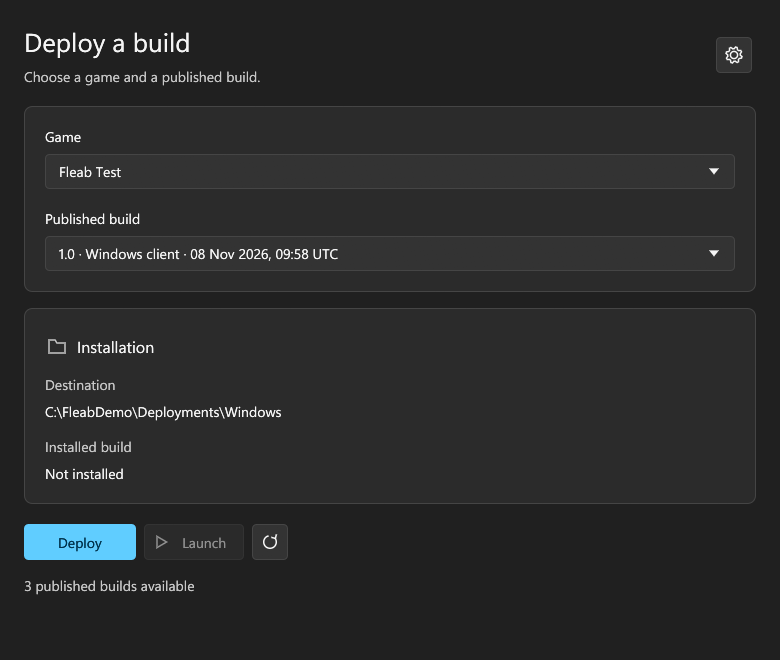
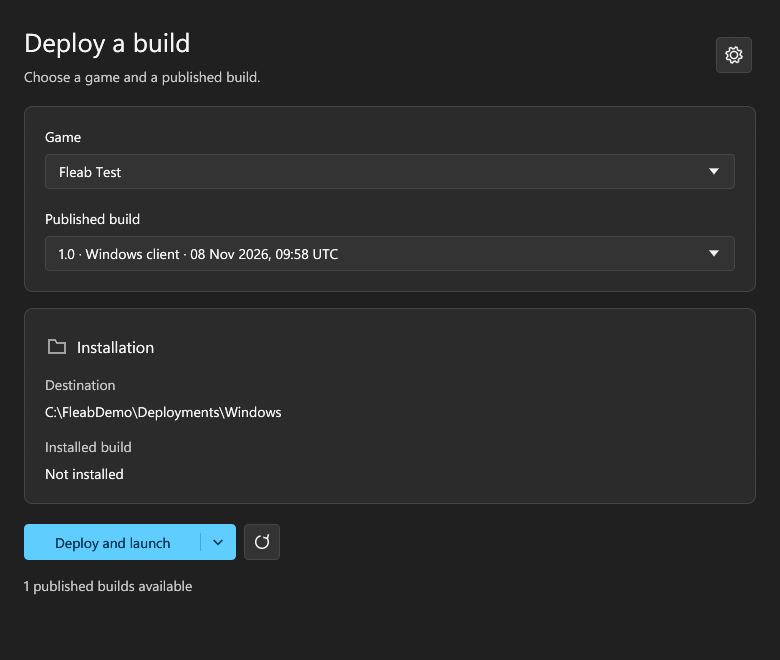
docs(deployer): explain the combined action and refresh screenshots
Update quickstart steps for Deploy and launch and explain the
split-button choices, session selection, cancellation, and recovery
when a deployed build cannot start.

Refresh app screenshots in both themes, include the open action menu,
and record Windows, Linux, and hidden Sandbox verification results.

Changed region(s): [[0.0615, 0.7879, 0.3692, 0.8485], [0.0308, 0.8788, 0.2462, 0.9091]]

diff --git a/docs/verification.md b/docs/verification.md
@@ -1,5 +1,35 @@
 # Verification record
 
+## Deploy and launch — 12 November 2026
+
+The desktop split button defaults to **Deploy and launch** and offers
+**Deploy only** and **Launch installed**. Menu selection changes the action
+without running it. The selection lasts for the app session.
+
+* Formatting and strict Clippy passed on Windows x64 and Linux x64 (WSL).
+* Rust suites passed: 45 tests on Windows and 47 on native Linux filesystems.
+  New checks cover deployment-before-launch ordering, failed deployments,
+  cancellation during commit, launch failure preserving the installation,
+  first-install preflight and Wine/Proton configuration.
+* UI checks passed for menu selection without execution, completion/error
+  messages surviving a rescan, and all action labels fitting 480×390 and
+  780×660 windows in light and dark themes.
+* Hidden Windows Sandbox passed unit/integration checks, portable GUI startup,
+  and the combined action with a real published Unity Windows player. It
+  installed and started the player in batch/no-graphics mode, then confirmed
+  running-process protection and terminated its own player.
+* The actual desktop views and open menus were captured and inspected in
+  hidden Sandbox in both themes. The screenshot harness uses production view
+  code with capture-only palette and popup overrides; it does not replace an
+  interaction test. No host desktop windows were opened.
+
+The refreshed [light](screenshots/fleab-light.png) and
+[dark](screenshots/fleab-dark.png) app captures and
+[light](screenshots/actions-light.png) and
+[dark](screenshots/actions-dark.png) action menus use a sample profile.
+Native macOS/Windows ARM64 and actual Wine/Proton game launches still require
+their respective runtime environments; no new remote CI run is claimed here.
+
 ## Unity publisher folder picker — 10 November 2026
 
 The released settings window allowed the folder icon's intrinsic texture size to

diff --git a/docs/deployer.md b/docs/deployer.md
@@ -45,9 +45,26 @@ source on use. With no scanned selection, local installation records remain
 visible as status information.
 
 The selected archive determines the destination and installed-build display.
-Deploy installs the selected archive immediately. Launch uses the installed
-record for that target. Configured executable overrides are relative to the
-installation and must resolve inside it. Automatic detection requires a unique
+The primary split button defaults to **Deploy and launch**: it installs the
+selected archive, then starts that newly installed build with the profile's
+launch settings. Open the arrow to choose **Deploy only** or **Launch installed**.
+Choosing a menu item changes the button; click the button to run it. The choice
+lasts for the current app session. The refresh icon rescans the archive source.
+See the action menu in [light](screenshots/actions-light.png) or
+[dark](screenshots/actions-dark.png) mode.
+
+Launch never follows a failed or cancelled deployment. If cancellation arrives
+during the final replacement, the completed installation is kept and launch is
+skipped. If starting the game fails, the new installation remains available;
+correct the launch settings and retry **Launch installed** without redeploying.
+Unsupported platforms or missing Wine/Proton runners disable the combined
+action with an explanation; **Deploy only** remains available. A first-time
+installation can use the combined action without a previously installed build.
+
+**Launch installed** uses the installed record for the selected target,
+independently of the selected archive's version. Configured executable overrides
+are relative to the installation and must resolve inside it. Automatic detection
+requires a unique
 Unity player executable with its `_Data` directory or a valid `.app` bundle.
 macOS bundle validation uses `CFBundleExecutable`, including binary plists.
 

diff --git a/README.md b/README.md
@@ -18,7 +18,7 @@ always-on target computer is needed.
 
 <picture>
   <source media="(prefers-color-scheme: dark)" srcset="docs/screenshots/fleab-dark.png" />
-  <img src="docs/screenshots/fleab-light.png" width="780" alt="Fleab desktop app showing a published build, its destination, and Deploy and Launch controls" />
+  <img src="docs/screenshots/fleab-light.png" width="780" alt="Fleab desktop app showing a published build, its destination, and Deploy and launch split button" />
 </picture>
 
 ## Quickstart
@@ -35,7 +35,8 @@ always-on target computer is needed.
    computer, extract it, and open the app.
 4. Open the **settings cog** and create a game profile. Set the archive source
    to your publishing folder and choose a dedicated installation folder for each
-   target you need. Save, select a build, then **Deploy** and **Launch**.
+   target you need. Save, select a build, then **Deploy and launch**. The button's
+   dropdown also offers **Deploy only** and **Launch installed**.
 
 Use the test computer's path to the published folder. A network share can have
 different paths on different machines.

diff --git a/docs/development.md b/docs/development.md
@@ -60,8 +60,9 @@ Windows builds; `-BuildTarget Linux64` or `macOS` checks cross-build publishing
 when those modules are installed. The ordinary editor run skips expensive builds.
 
 For a real native Unity archive, set `FLEAB_ACCEPTANCE_ARCHIVE` and run
-`cargo test --test acceptance -- --ignored`. It deploys to a disposable directory,
-starts the native player in batch mode, checks running-process protection and
+`cargo test --test acceptance -- --ignored`. It uses the combined deploy-and-launch
+action in a disposable directory, starts the native player in batch mode,
+checks running-process protection and
 terminates only its own test process. Use a test game, not an interactive build
 you are actively playing. The normal test suite leaves this test ignored.
 
